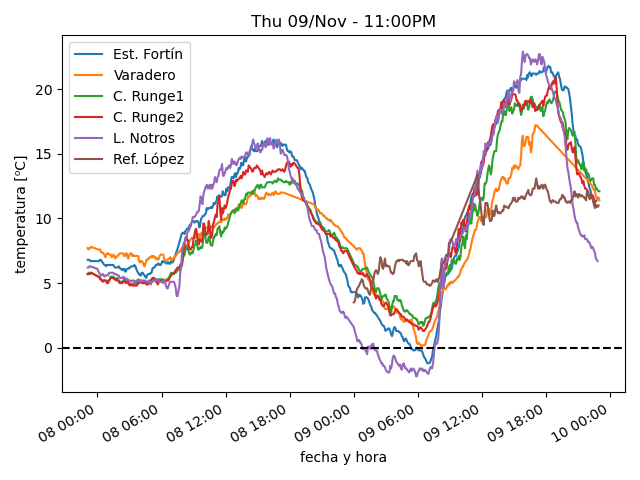
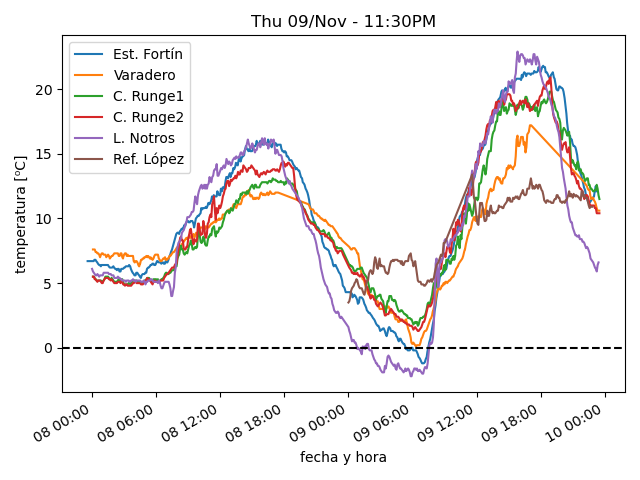
actualiza datos

diff --git a/estaciones/estacion2.html b/estaciones/estacion2.html
@@ -18,32 +18,32 @@
     </tr>
     <tr>
      <td class="stats_data">
-      10:59PM
+      11:29PM
      </td>
     </tr>
     <tr>
      <td class="stats_data">
-      11.4⁰C
+      10.6⁰C
      </td>
     </tr>
     <tr>
      <td class="stats_data">
-      1.7⁰C
+      1.4⁰C
      </td>
     </tr>
     <tr>
      <td class="stats_data">
-      51.2%
+      52.8%
      </td>
     </tr>
     <tr>
      <td class="stats_data">
-      1013.55hPa
+      1013.21hPa
      </td>
     </tr>
     <tr>
      <td class="stats_data">
-      4.1/5.0 km/hr SSW
+      2.1/3.0 km/hr SSW
      </td>
     </tr>
     <tr>

diff --git a/estaciones/estacion4.html b/estaciones/estacion4.html
@@ -18,32 +18,32 @@
     </tr>
     <tr>
      <td class="stats_data">
-      10:54PM
+      11:29PM
      </td>
     </tr>
     <tr>
      <td class="stats_data">
-      11.0⁰C
+      10.4⁰C
      </td>
     </tr>
     <tr>
      <td class="stats_data">
-      1.9⁰C
+      2.0⁰C
      </td>
     </tr>
     <tr>
      <td class="stats_data">
-      53.7%
+      56.1%
      </td>
     </tr>
     <tr>
      <td class="stats_data">
-      1008.23hPa
+      1008.33hPa
      </td>
     </tr>
     <tr>
      <td class="stats_data">
-      0.5/1.5 km/hr SSW
+      0.6/1.1 km/hr SSW
      </td>
     </tr>
     <tr>

diff --git a/estaciones/estacion3.html b/estaciones/estacion3.html
@@ -18,32 +18,32 @@
     </tr>
     <tr>
      <td class="stats_data">
-      10:59PM
+      11:29PM
      </td>
     </tr>
     <tr>
      <td class="stats_data">
-      12.1⁰C
+      11.5⁰C
      </td>
     </tr>
     <tr>
      <td class="stats_data">
-      1.9⁰C
+      2.6⁰C
      </td>
     </tr>
     <tr>
      <td class="stats_data">
-      49.6%
+      54.4%
      </td>
     </tr>
     <tr>
      <td class="stats_data">
-      999.22hPa
+      999.02hPa
      </td>
     </tr>
     <tr>
      <td class="stats_data">
-      2.1/2.8 km/hr SW
+      0.7/0.8 km/hr WSW
      </td>
     </tr>
     <tr>

diff --git a/estaciones/estacion1.html b/estaciones/estacion1.html
@@ -18,17 +18,17 @@
     </tr>
     <tr>
      <td class="stats_data">
-      10:53PM
+      11:13PM
      </td>
     </tr>
     <tr>
      <td class="stats_data">
-      11.6⁰C
+      12.1⁰C
      </td>
     </tr>
     <tr>
      <td class="stats_data">
-      0.3⁰C
+      0.6⁰C
      </td>
     </tr>
     <tr>
@@ -38,12 +38,12 @@
     </tr>
     <tr>
      <td class="stats_data">
-      1006.43hPa
+      1006.77hPa
      </td>
     </tr>
     <tr>
      <td class="stats_data">
-      6.3/9.7 km/hr NNW
+      3.9/8.0 km/hr E
      </td>
     </tr>
     <tr>

diff --git a/estaciones/estacion5.html b/estaciones/estacion5.html
@@ -18,27 +18,27 @@
     </tr>
     <tr>
      <td class="stats_data">
-      10:50PM
+      11:25PM
      </td>
     </tr>
     <tr>
      <td class="stats_data">
-      6.7⁰C
+      6.6⁰C
      </td>
     </tr>
     <tr>
      <td class="stats_data">
-      2.4⁰C
+      1.1⁰C
      </td>
     </tr>
     <tr>
      <td class="stats_data">
-      74.0%
+      68.0%
      </td>
     </tr>
     <tr>
      <td class="stats_data">
-      1009.82hPa
+      1009.69hPa
      </td>
     </tr>
     <tr>
